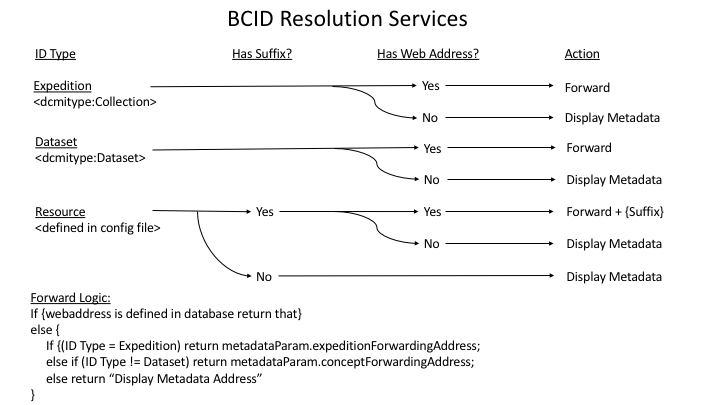
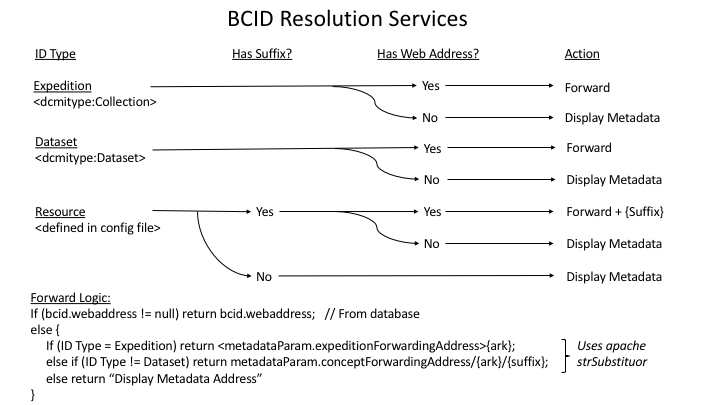
adding explanatory text on resolverBehaviour slide

Changed region(s): [[0.0611, 0.8296, 0.7639, 0.9185], [0.0611, 0.7407, 0.5806, 0.8], [0.7944, 0.8296, 0.9167, 0.9185]]

diff --git a/docs/_build/html/searchindex.js b/docs/_build/html/searchindex.js
@@ -1,1 +1,1 @@
-Search.setIndex({envversion:46,filenames:["amphibian_disease_example","bcids","curl_examples","fims_migration","identifiers","implementations","index","installation","introduction","javadocs","migration_guide","oauth2","services","sub_sampling","user_accounts"],objects:{},objnames:{},objtypes:{},terms:{"1st":10,"2bxml":1,"2f21547":1,"2fark":1,"2fbcid":1,"2fbiscicol":1,"2fid":1,"2fr2":1,"2frdf":1,"abstract":[10,14],"case":8,"class":7,"function":8,"import":13,"long":1,"null":1,"public":0,"return":[0,1,2,10,11],"short":1,"super":8,"true":[1,2],"try":1,"while":8,abl:1,about:[6,8,10,13,14],abov:1,absent:4,absolut:11,accepthead:1,access:2,access_token:[10,11],accesstoken:10,account:[2,7],act:1,action:4,add:[7,14],addit:[],address:1,addus:10,adjust:7,admin:[10,11],adminaccess:10,administr:8,africa:5,after:[3,11],again:8,all:[0,1,2,3,5,6,7,8,11,13],allow:1,also:[1,11],alter:3,alwai:1,amphibian:5,amphibiandiseas:0,ani:[1,2,11,13,14],ant:7,anybodi:8,apach:7,api:[],app:11,appear:1,append:[4,11],appli:8,applic:[0,1,2,8],appropri:6,archiv:4,ark:[1,2,4,8,10],assembl:1,assign:[1,4,5,8],associ:[0,1,2,8,10],assum:13,attempt:2,attribut:[1,8,10],authent:[0,2,10,11],authenticationservic:[0,2,10,11],author:[1,5,10],autom:5,automat:7,avail:[1,6,7,8,9,12],back:5,barcod:5,base:[7,8,13],batch:3,bcidid:10,bearer:11,becaus:1,begin:7,behalf:11,behaviour:4,belong:4,below:4,berkelei:1,berlin:1,between:[1,13],billion:1,biocod:[0,1,2,3,6,7,8,9,10,12,14],biocodellc:[9,14],biodivers:[1,13],biolog:1,biscicol:[0,1,2,3],block:3,bodi:11,botan:5,box:1,broken:8,browser:7,build:[],built:[7,8],bundl:8,california:[1,4],callbcid:10,can:[1,4,6,8,11,13,14],capabl:7,casa:[],catalog:8,categori:4,cell:0,central:4,chain:13,chang:[7,10],charact:11,chart:4,check:1,child:1,choic:7,choos:[0,8],client:11,client_id:11,client_secret:11,cmd:3,code:[6,7,8,9,11],codebas:8,collect:[1,4,8,13],column:[0,1,3,10],columnnam:10,com:14,come:4,common:[1,3,8],commons_:7,commun:1,complet:3,compon:5,concept:[1,8],conceptu:1,configast:10,configeditorast:10,confignam:10,configur:[4,7,13],connect:[7,13],consist:[1,7],constrain:1,contact:[1,8,11],contain:[7,8,10,11],continue_nmnh:10,continue_spreadsheet:10,contribut:1,contributor:8,control:1,cooki:[0,2],copi:[3,7],core:[1,7,8],createexcel:10,createformast:10,createuserform:10,creation:1,creativ:1,creativecommon:1,cspace:10,curl:[0,1],curl_exampl:0,current:[4,5,8,10,11],darwin:1,databas:[4,7],datagroup:10,datagroupeditorast:10,dataset_expeditioncod:0,dataset_id:10,dataset_titl:0,dataset_webaddress:0,datasetid:10,datasetsast:10,dcmityp:[0,4],dedic:5,deeproot:10,defin:[1,4,8,13,14],definit:10,delimit:1,demonstr:0,depend:[0,4],deploy:3,describ:[1,4,5,8,14],descript:[1,2,10],design:[1,7,14],detail:[],differ:5,digit:[1,4],dipnet:5,direct:[4,11,13],directli:5,directori:[2,7],discoveri:13,diseas:5,displai:4,distinct:13,distribut:7,divers:5,document:5,doe:1,doi:[1,4],done:[0,7],down:8,download:8,downstream:1,drop:3,dure:[7,11],dwc:2,dynam:[],each:[4,8,10,13],eas:1,easi:1,edg:13,edit:8,edu:1,either:[4,8,14],element:1,elementservic:10,els:8,email:[10,11],enabl:[1,8],end:[1,5,8],engin:[5,13],enter:3,entiti:1,entrustchalleng:10,error:0,event:8,everyth:3,exampl:0,excel:[8,10],exchang:11,exist:14,expedition_cod:10,expedition_titl:10,expeditioncod:[0,4,10],expeditionid:10,expeditionmetadata:10,expeditionown:10,expeditionservic:10,expeditiontitl:[0,4,10],expeditionupdat:3,expir:11,expires_in:11,explain:2,extend:1,fall:[1,4],fals:1,featur:[4,8],field:[4,8],file:[4,7,8,13,14],filteropt:10,fim:[0,2],fims1:6,fims2:6,fimsaltertablescript:3,fimsaltertablesscript:3,finalcopi:10,firefox:7,first:[0,1,2,8],firstnam:[10,11],flat:13,focus:5,follow:[0,1,2,4,7,8,10,11],followin:[],form:[0,1,4],format:[1,4,8],forward:[0,1,4],found:[4,6],freeli:[6,8],from:[3,6,8],front:8,full:0,fuseki:[7,8,13],garden:5,gener:5,get:[10,11],getconfig:10,getdatasetdashboard:10,getdefinit:10,getlatlongcolumn:10,getlistfield:10,gettemplateconfig:10,github:[6,9,14],given:8,glassfish:7,global:[4,5],good:11,grant_typ:[10,11],graph:[10,13],graphmetadata:10,group:[1,2,8],groupservic:10,guid:[],handl:[1,8],hassetpassword:[10,11],have:[1,2,7],held:8,herbarium:5,here:[0,5,8,14],hierarch:1,homepag:8,hostnam:7,how:[0,1,2,5],howev:[8,14],html:[0,1,2,8],http:[0,1,2,4,7,9,10,12,14],ident:11,identif:8,identifi:[0,1,2],illustr:[1,4],immedi:1,immut:4,implement:[],includ:[8,11],index:1,indic:1,individu:[1,4],indopacif:5,informat:1,informatik:1,infrequ:8,instal:[],instanc:1,instead:7,institut:[10,11],instruct:[3,5],integ:2,interact:[0,7,8],interpret:8,isnmnhproject:10,ispubl:10,issu:[1,11],itself:[4,8],jar:[2,8],java:7,javadoc:1,jena:7,jepson:5,jetti:7,join:13,json:[0,8,10,11],jsonarrai:10,jsonobject:10,jsp:1,just:[3,5,11],kei:4,kenya:5,kept:11,kml:10,know:1,knowledg:13,label:[],lastnam:[10,11],later:1,latest:0,less:11,level:[1,8],librari:[1,4],licens:1,like:[0,1,8,11],line:3,linkeddata:1,list:[0,1,2,10],listast:10,listeditorast:10,listexpeditionsast:10,listnam:10,listproject:10,listprojectusersast:10,listuserbcidsast:10,listuserexpeditionsast:10,listuserproject:10,live:6,llc:6,load:[4,8],local:[0,1,2,4],locat:[2,14],log:[7,10],login:[0,2,10],loginldap:10,longer:10,look:0,lookup:[2,14],mai:[1,4,5,8],main:[2,3],maintain:[1,13],make:[2,11],manag:8,mani:[1,8],manner:1,map:[8,10,13],materi:[4,13],materialsampl:2,mbio56:[1,4],mechan:1,mention:6,metadata:[1,4,10],metadataeditor:10,metadatael:10,method:[0,3],mexico:5,min:11,minusdataset:10,miss:0,modul:[8,13],modular:8,monitor:5,more:[1,5,8,10,13],most:4,move:10,multipart:0,multipl:4,must:[0,1,4,11],mutabl:4,mydataset:10,mygraph:10,mysql:[3,5],n2t:1,naam:[],naan:[1,4],name:[1,3,4,5,8],nativ:4,need:[1,2,7,10,11],net:1,new_expeditioncod:0,new_expeditiontitl:0,nigeria:5,nmnh:[3,10],node:13,note:[0,1,2],now:[1,10],number:[1,4,5,11],oauth2:[],oauth:[10,11],object:[1,8,10],obtain:[11,14],occur:13,offer:1,old:11,onc:[3,8],onli:[1,5,10,11,14],onlin:1,open:[1,6,14],oper:[],option:[1,2],order:11,org:[0,1,2,4,7,10,12],organ:1,origin:1,other:1,otherwis:0,out:1,output:3,over:1,own:1,owner:[1,8,14],page:[1,2],param:[0,10],paramet:[0,11],part:[7,8],particular:[4,5,14],pass:1,passthrough:[1,4],password:[0,2,10,11],past:3,peopl:7,per:14,perform:13,permit:8,permitinform:0,persist:1,php:1,physic:[4,8],piec:8,plan:8,pleas:[1,8,11],plu:4,point:13,portal:5,possibl:[0,1,5],post:[0,10,11],postparam:10,power:8,prefix:10,present:0,primari:4,primarli:13,privat:11,problem:7,procedur:13,process:[1,13],profil:[10,11],project:[0,1,5],project_id:10,projectadmin:[10,11],projectcod:10,projectservic:10,projecttitl:10,prompt:3,prop:7,properti:7,provid:[7,10,11],pswd:2,public_expedit:0,publicexpedit:10,publicstatu:10,purchas:[1,7],purl:[0,4],queri:[8,10,11],question:2,r2mbio56:[1,2],random:11,read:13,readthedoc:0,receiv:11,recent:4,recommend:[3,7],redirect:[],redirect_uri:11,reef:5,refer:[1,5,7,8],refresh:[],refresh_token:11,refreshcach:10,regist:[1,2,4,11],relat:8,relev:8,remov:[10,14],removeconfig:10,removetemplateconfig:10,removeus:10,replac:0,repositori:6,repres:[1,4,13],represent:[1,13],request:[0,2,4,8,11,14],requir:[0,7,8,10,11,14],research:4,reset:10,resetpassword:10,resolv:[0,1,2,4,14],resourcealia:10,resourcesast:10,resourcetyp:[0,2,4,10],resourcetypesminusdataset:2,respect:13,respons:[0,8,11],result:[2,13],returnto:10,right:1,robust:1,root:[1,4,7],row:4,rule:8,run:3,sampl:[0,1,7,8],save:0,saveconfig:10,savetemplateconfig:10,scalabl:1,scheme:[1,4],score:1,second:[2,11],section:[8,13],see:[0,2,8],segment:1,select:10,self:1,semant:13,send:[0,8],sendresettoken:10,sent:0,separ:1,serial:8,server:[7,11],servic:[0,1,2],serving_data:7,servlet:7,session:7,set:[0,1,2,7,8,14],share:[1,5,8],should:[7,11],show:[2,4,5],signific:13,simpl:2,simpli:8,sinc:[1,7],singl:[1,4,8,13],site:[5,7,8],sketch:[],skip:[3,10],slash:1,soil:8,solut:1,some:0,someth:0,sound:1,sourc:[1,6,7],south:5,special:8,specif:[4,8],specifi:[2,4],specimen:[1,13],spreadsheet:[4,8],stand:1,standard:2,start:8,state:11,statu:8,step:0,still:[1,11],storag:[5,13],store:[7,8],string:[10,11],structur:1,sub:[1,8],subject:13,subscript:1,substitut:5,subvers:7,success:[2,11],suffixpassthrough:2,suppli:1,support:[5,11,13],sure:[0,2],survei:8,tab:10,tabl:[1,3],talk:[1,14],target:[0,1,4,13],taxonom:8,technic:1,templat:[7,8,10],term:[1,13],test:[2,7],thei:[1,14],them:[1,13],thi:[0,1,2,3,4,5,6,7,8,10,11,13],thing:[2,4],those:1,thought:13,three:4,through:[1,4,8],thu:10,time:11,timestamp:10,tissu:8,titl:[0,2],togeth:8,token:[],token_typ:11,tomcat:7,tool:1,topic:5,track:8,transform:13,tripl:[7,8],triplestor:[5,8],triplet:1,two:2,txt:2,type:[0,1,4],typic:8,ultim:1,under:[1,4,6,8],understand:[8,13],uniqu:[1,4,5,8,13],univers:5,unix:7,unless:0,unmodifi:11,unregist:1,updat:[1,2,3,10],updateconfig:10,updatepublicstatu:10,updatestatu:10,upload:[4,8,10],upon:14,uri:[10,11],uridbg:1,url:[0,1,7,11],urlencod:0,user:[1,2,8,10,11],useragenthead:1,userid:[4,10,11],usernam:[0,2,10,11],userservic:[10,11],util:[3,5,10],uuid:1,validateexpedit:10,validationxml:10,valu:[0,1,8,10],version:4,via:7,view:1,visit:10,wadl:[0,1,2,10,12],wai:2,want:1,warn:0,water:8,web:[1,4],webaddress:[0,4,10],were:[10,11],when:[0,4,8,11,13],where:[1,2,4,13],whether:[],which:[0,1,4,7,8,13],who:[4,8,13],wide:4,wiki:14,wildlif:5,wish:[7,8],within:[1,4],without:[1,2],work:[4,8,14],world:4,would:[1,8,11],write:2,www:[0,7],yearcollect:0,yet:1,york:5,you:[0,1,2,3,7,8,11],your_access_token:11,your_dataset:0,your_expeditioncod:0,your_projectid:0,yourpassword:0},titles:["Minting IDs, Creating Expeditions, and Validating Data using REST calls","Introduction to BCIDs","curl Examples","FIMS v1 migration to FIMS v2","Identifiers","Implementations","FIMS documentation","Installation","Introduction","FIMS Commons Javadocs","REST Service Migration Guide","oauth2","REST Services","Samples and Sub-sampling","User Accounts"],titleterms:{"new":0,"public":2,accept:1,access:11,account:14,addit:7,administr:14,api:11,author:11,bcid:[0,1,4],biscicol:5,build:7,call:[0,5],common:9,compon:7,content:2,creat:0,creation:14,creator:2,curl:2,data:0,dataset:[0,4,8],detail:7,determin:0,develop:1,discuss:1,document:6,exampl:2,expedit:[0,4,8],ezid:1,fim:[3,6,8,9],guid:10,header:1,how:8,identifi:4,implement:5,inform:1,instal:7,instanc:5,instruct:7,interfac:5,introduct:[1,8],javadoc:9,migrat:[3,10],mint:0,note:7,oauth2:11,oper:8,option:7,organ:8,own:5,portion:5,project:[8,14],projectid:0,rdf:1,refresh:11,relationship:1,resolut:[1,4],resourc:[4,8],rest:[0,10,12],run:5,sampl:13,secur:2,servic:[5,10,12],some:5,sub:13,suffix:1,system:4,token:11,user:14,valid:0,xml:1,your:0}})
+Search.setIndex({envversion:46,filenames:["amphibian_disease_example","bcids","curl_examples","fims_migration","identifiers","implementations","index","installation","introduction","javadocs","migration_guide","oauth2","services","sub_sampling","user_accounts"],objects:{},objnames:{},objtypes:{},terms:{"1st":10,"2bxml":1,"2f21547":1,"2fark":1,"2fbcid":1,"2fbiscicol":1,"2fid":1,"2fr2":1,"2frdf":1,"abstract":[10,14],"case":8,"class":7,"function":8,"import":13,"long":1,"null":1,"public":0,"return":[0,1,2,10,11],"short":1,"super":8,"true":[1,2],"try":1,"while":8,abl:1,about:[6,8,10,13,14],abov:1,absent:4,absolut:11,accepthead:1,access:[2,6],access_token:[10,11],accesstoken:10,account:[2,6,7],act:1,action:4,add:[7,14],addit:[4,6],address:1,addus:10,adjust:7,admin:[10,11],adminaccess:10,administr:[6,8],africa:5,after:[3,11],again:8,all:[0,1,2,3,5,6,7,8,11,13],allow:1,also:[1,11],alter:3,alwai:1,amphibian:5,amphibiandiseas:0,ani:[1,2,11,13,14],ant:7,anybodi:8,apach:7,api:6,app:11,appear:1,append:[4,11],appli:8,applic:[0,1,2,8],appropri:6,archiv:4,ark:[1,2,4,8,10],assembl:1,assign:[1,4,5,8],associ:[0,1,2,8,10],assum:13,attempt:2,attribut:[1,8,10],authent:[0,2,10,11],authenticationservic:[0,2,10,11],author:[1,4,5,6,10],autom:5,automat:7,avail:[1,6,7,8,9,12],back:5,barcod:5,base:[7,8,13],batch:3,bcidid:10,bearer:11,becaus:1,begin:7,behalf:11,behaviour:4,belong:4,below:4,berkelei:1,berlin:1,between:[1,13],billion:1,biocod:[0,1,2,3,6,7,8,9,10,12,14],biocodellc:[9,14],biodivers:[1,13],biolog:1,biscicol:[0,1,2,3],block:3,bodi:11,botan:5,box:1,broken:8,browser:7,build:6,built:[7,8],bundl:8,california:[1,4],callbcid:10,can:[1,4,6,8,11,13,14],capabl:7,catalog:8,categori:4,cell:0,central:4,chain:13,chang:[7,10],charact:11,chart:4,check:1,child:1,choic:7,choos:[0,8],client:11,client_id:11,client_secret:11,cmd:3,code:[6,7,8,9,11],codebas:8,collect:[1,4,8,13],column:[0,1,3,10],columnnam:10,com:14,come:4,common:[1,3,6,8],commons_:7,commun:1,complet:3,compon:[5,6],concept:[1,8],conceptu:1,configast:10,configeditorast:10,confignam:10,configur:[4,7,13],connect:[7,13],consist:[1,7],constrain:1,contact:[1,8,11],contain:[7,8,10,11],continue_nmnh:10,continue_spreadsheet:10,contribut:1,contributor:8,control:1,cooki:[0,2],copi:[3,7],core:[1,7,8],createexcel:10,createformast:10,createuserform:10,creation:[1,6],creativ:1,creativecommon:1,cspace:10,curl:[0,1],curl_exampl:0,current:[4,5,8,10,11],darwin:1,databas:[4,7],datagroup:10,datagroupeditorast:10,dataset_expeditioncod:0,dataset_id:10,dataset_titl:0,dataset_webaddress:0,datasetid:10,datasetsast:10,dcmityp:[0,4],dedic:5,deeproot:10,defin:[1,4,8,13,14],definit:10,delimit:1,demonstr:0,depend:[0,4],deploy:3,describ:[1,4,5,8,14],descript:[1,2,10],design:[1,7,14],detail:6,differ:5,digit:[1,4],dipnet:5,direct:[4,11,13],directli:5,directori:[2,7],discoveri:13,diseas:5,displai:4,distinct:13,distribut:7,divers:5,document:5,doe:1,doi:[1,4],done:[0,7],down:8,download:8,downstream:1,drop:3,dure:[7,11],dwc:2,each:[4,8,10,13],eas:1,easi:1,edg:13,edit:8,edu:1,either:[4,8,14],element:1,elementservic:10,els:8,email:[10,11],enabl:[1,8],end:[1,5,8],engin:[5,13],enter:3,entiti:1,entrustchalleng:10,error:0,event:8,everyth:3,exampl:0,excel:[8,10],exchang:11,exist:14,expedition_cod:10,expedition_titl:10,expeditioncod:[0,4,10],expeditionid:10,expeditionmetadata:10,expeditionown:10,expeditionservic:10,expeditiontitl:[0,4,10],expeditionupdat:3,expir:11,expires_in:11,explain:2,extend:1,fall:[1,4],fals:1,featur:[4,8],field:[4,8],file:[4,7,8,13,14],filteropt:10,fim:[0,2],fims1:6,fims2:6,fimsaltertablescript:3,fimsaltertablesscript:3,finalcopi:10,firefox:7,first:[0,1,2,8],firstnam:[10,11],flat:13,focus:5,follow:[0,1,2,4,7,8,10,11],form:[0,1,4],format:[1,4,8],forward:[0,1,4],found:[4,6],freeli:[6,8],from:[3,6,8],front:8,full:0,fuseki:[7,8,13],garden:5,gener:5,get:[10,11],getconfig:10,getdatasetdashboard:10,getdefinit:10,getlatlongcolumn:10,getlistfield:10,gettemplateconfig:10,github:[6,9,14],given:8,glassfish:7,global:[4,5],good:11,grant_typ:[10,11],graph:[10,13],graphmetadata:10,group:[1,2,8],groupservic:10,guid:6,handl:[1,8],hassetpassword:[10,11],have:[1,2,7],held:8,herbarium:5,here:[0,5,8,14],hierarch:1,homepag:8,hostnam:7,how:[0,1,2,4,5,6],howev:[8,14],html:[0,1,2,8],http:[0,1,2,4,7,9,10,12,14],ident:11,identif:8,identifi:[0,1,2],illustr:[1,4],immedi:1,immut:4,implement:4,includ:[8,11],index:1,indic:1,individu:[1,4],indopacif:5,informat:1,informatik:1,infrequ:8,instal:[4,6],instanc:1,instead:7,institut:[10,11],instruct:[3,5,6],integ:2,interact:[0,7,8],interpret:8,isnmnhproject:10,ispubl:10,issu:[1,11],itself:[4,8],jar:[2,8],java:7,javadoc:[1,6],jena:7,jepson:5,jetti:7,join:13,json:[0,8,10,11],jsonarrai:10,jsonobject:10,jsp:1,just:[3,5,11],kei:4,kenya:5,kept:11,kml:10,know:1,knowledg:13,lastnam:[10,11],later:1,latest:0,less:11,level:[1,8],librari:[1,4],licens:1,like:[0,1,8,11],line:3,linkeddata:1,list:[0,1,2,10],listast:10,listeditorast:10,listexpeditionsast:10,listnam:10,listproject:10,listprojectusersast:10,listuserbcidsast:10,listuserexpeditionsast:10,listuserproject:10,live:6,llc:6,load:[4,8],local:[0,1,2,4],locat:[2,14],log:[7,10],login:[0,2,10],loginldap:10,longer:10,look:0,lookup:[2,14],mai:[1,4,5,8],main:[2,3],maintain:[1,13],make:[2,11],manag:8,mani:[1,8],manner:1,map:[8,10,13],materi:[4,13],materialsampl:2,mbio56:[1,4],mechan:1,mention:6,metadata:[1,4,10],metadataeditor:10,metadatael:10,method:[0,3],mexico:5,min:11,minusdataset:10,miss:0,modul:[8,13],modular:8,monitor:5,more:[1,5,8,10,13],most:4,move:10,multipart:0,multipl:4,must:[0,1,4,11],mutabl:4,mydataset:10,mygraph:10,mysql:[3,5],n2t:1,naan:[1,4],name:[1,3,4,5,8],nativ:4,need:[1,2,7,10,11],net:1,new_expeditioncod:0,new_expeditiontitl:0,nigeria:5,nmnh:[3,10],node:13,note:[0,1,2,6],now:[1,10],number:[1,4,5,11],oauth2:6,oauth:[10,11],object:[1,8,10],obtain:[11,14],occur:13,offer:1,old:11,onc:[3,8],onli:[1,5,10,11,14],onlin:1,open:[1,6,14],oper:6,option:[1,2,4,6],order:11,org:[0,1,2,4,7,10,12],organ:[1,6],origin:1,other:1,otherwis:0,out:1,output:3,over:1,own:[1,4],owner:[1,8,14],page:[1,2],param:[0,10],paramet:[0,11],part:[7,8],particular:[4,5,14],pass:1,passthrough:[1,4],password:[0,2,10,11],past:3,peopl:7,per:14,perform:13,permit:8,permitinform:0,persist:1,php:1,physic:[4,8],piec:8,plan:8,pleas:[1,8,11],plu:4,point:13,portal:5,possibl:[0,1,5],post:[0,10,11],postparam:10,power:8,prefix:10,present:0,primari:4,primarli:13,privat:11,problem:7,procedur:13,process:[1,13],profil:[10,11],project:[0,1,4,5,6],project_id:10,projectadmin:[10,11],projectcod:10,projectservic:10,projecttitl:10,prompt:3,prop:7,properti:7,provid:[7,10,11],pswd:2,public_expedit:0,publicexpedit:10,publicstatu:10,purchas:[1,7],purl:[0,4],queri:[8,10,11],question:2,r2mbio56:[1,2],random:11,read:13,readthedoc:0,receiv:11,recent:4,recommend:[3,7],redirect_uri:11,reef:5,refer:[1,5,7,8],refresh:6,refresh_token:11,refreshcach:10,regist:[1,2,4,11],relat:8,relev:8,remov:[10,14],removeconfig:10,removetemplateconfig:10,removeus:10,replac:0,repositori:6,repres:[1,4,13],represent:[1,13],request:[0,2,4,8,11,14],requir:[0,7,8,10,11,14],research:4,reset:10,resetpassword:10,resolv:[0,1,2,4,14],resourcealia:10,resourcesast:10,resourcetyp:[0,2,4,10],resourcetypesminusdataset:2,respect:13,respons:[0,8,11],result:[2,13],returnto:10,right:1,robust:1,root:[1,4,7],row:4,rule:8,run:3,sampl:[0,1,4,6,7,8],save:0,saveconfig:10,savetemplateconfig:10,scalabl:1,scheme:[1,4],score:1,second:[2,11],section:[8,13],see:[0,2,8],segment:1,select:10,self:1,semant:13,send:[0,8],sendresettoken:10,sent:0,separ:1,serial:8,server:[7,11],servic:[0,1,2,4],serving_data:7,servlet:7,session:7,set:[0,1,2,7,8,14],share:[1,5,8],should:[7,11],show:[2,4,5],signific:13,simpl:2,simpli:8,sinc:[1,7],singl:[1,4,8,13],site:[5,7,8],skip:[3,10],slash:1,soil:8,solut:1,some:0,someth:0,sound:1,sourc:[1,6,7],south:5,special:8,specif:[4,8],specifi:[2,4],specimen:[1,13],spreadsheet:[4,8],stand:1,standard:2,start:8,state:11,statu:8,step:0,still:[1,11],storag:[5,13],store:[7,8],string:[10,11],structur:1,sub:[1,6,8],subject:13,subscript:1,substitut:5,subvers:7,success:[2,11],suffixpassthrough:2,suppli:1,support:[5,11,13],sure:[0,2],survei:8,tab:10,tabl:[1,3],talk:[1,14],target:[0,1,4,13],taxonom:8,technic:1,templat:[7,8,10],term:[1,13],test:[2,7],thei:[1,14],them:[1,13],thi:[0,1,2,3,4,5,6,7,8,10,11,13],thing:[2,4],those:1,thought:13,three:4,through:[1,4,8],thu:10,time:11,timestamp:10,tissu:8,titl:[0,2],togeth:8,token:6,token_typ:11,tomcat:7,tool:1,topic:5,track:8,transform:13,tripl:[7,8],triplestor:[5,8],triplet:1,two:2,txt:2,type:[0,1,4],typic:8,ultim:1,under:[1,4,6,8],understand:[8,13],uniqu:[1,4,5,8,13],univers:5,unix:7,unless:0,unmodifi:11,unregist:1,updat:[1,2,3,10],updateconfig:10,updatepublicstatu:10,updatestatu:10,upload:[4,8,10],upon:14,uri:[10,11],uridbg:1,url:[0,1,7,11],urlencod:0,user:[1,2,6,8,10,11],useragenthead:1,userid:[4,10,11],usernam:[0,2,10,11],userservic:[10,11],util:[3,5,10],uuid:1,validateexpedit:10,validationxml:10,valu:[0,1,8,10],version:4,via:7,view:1,visit:10,wadl:[0,1,2,10,12],wai:2,want:1,warn:0,water:8,web:[1,4],webaddress:[0,4,10],were:[10,11],when:[0,4,8,11,13],where:[1,2,4,13],which:[0,1,4,7,8,13],who:[4,8,13],wide:4,wiki:14,wildlif:5,wish:[7,8],within:[1,4],without:[1,2],work:[4,8,14],world:4,would:[1,8,11],write:2,www:[0,7],yearcollect:0,yet:1,york:5,you:[0,1,2,3,7,8,11],your_access_token:11,your_dataset:0,your_expeditioncod:0,your_projectid:0,yourpassword:0},titles:["Minting IDs, Creating Expeditions, and Validating Data using REST calls","Introduction to BCIDs","curl Examples","FIMS v1 migration to FIMS v2","Identifiers","Implementations","FIMS documentation","Installation","Introduction","FIMS Commons Javadocs","REST Service Migration Guide","oauth2","REST Services","Samples and Sub-sampling","User Accounts"],titleterms:{"new":0,"public":2,accept:1,access:11,account:14,addit:7,administr:14,api:11,author:11,bcid:[0,1,4],biscicol:5,build:7,call:[0,5],common:9,compon:7,content:2,creat:0,creation:14,creator:2,curl:2,data:0,dataset:[0,4,8],detail:7,determin:0,develop:1,discuss:1,document:6,exampl:2,expedit:[0,4,8],ezid:1,fim:[3,6,8,9],guid:10,header:1,how:8,identifi:4,implement:5,inform:1,instal:7,instanc:5,instruct:7,interfac:5,introduct:[1,8],javadoc:9,migrat:[3,10],mint:0,note:7,oauth2:11,oper:8,option:7,organ:8,own:5,portion:5,project:[8,14],projectid:0,rdf:1,refresh:11,relationship:1,resolut:[1,4],resourc:[4,8],rest:[0,10,12],run:5,sampl:13,secur:2,servic:[5,10,12],some:5,sub:13,suffix:1,system:4,token:11,user:14,valid:0,xml:1,your:0}})
